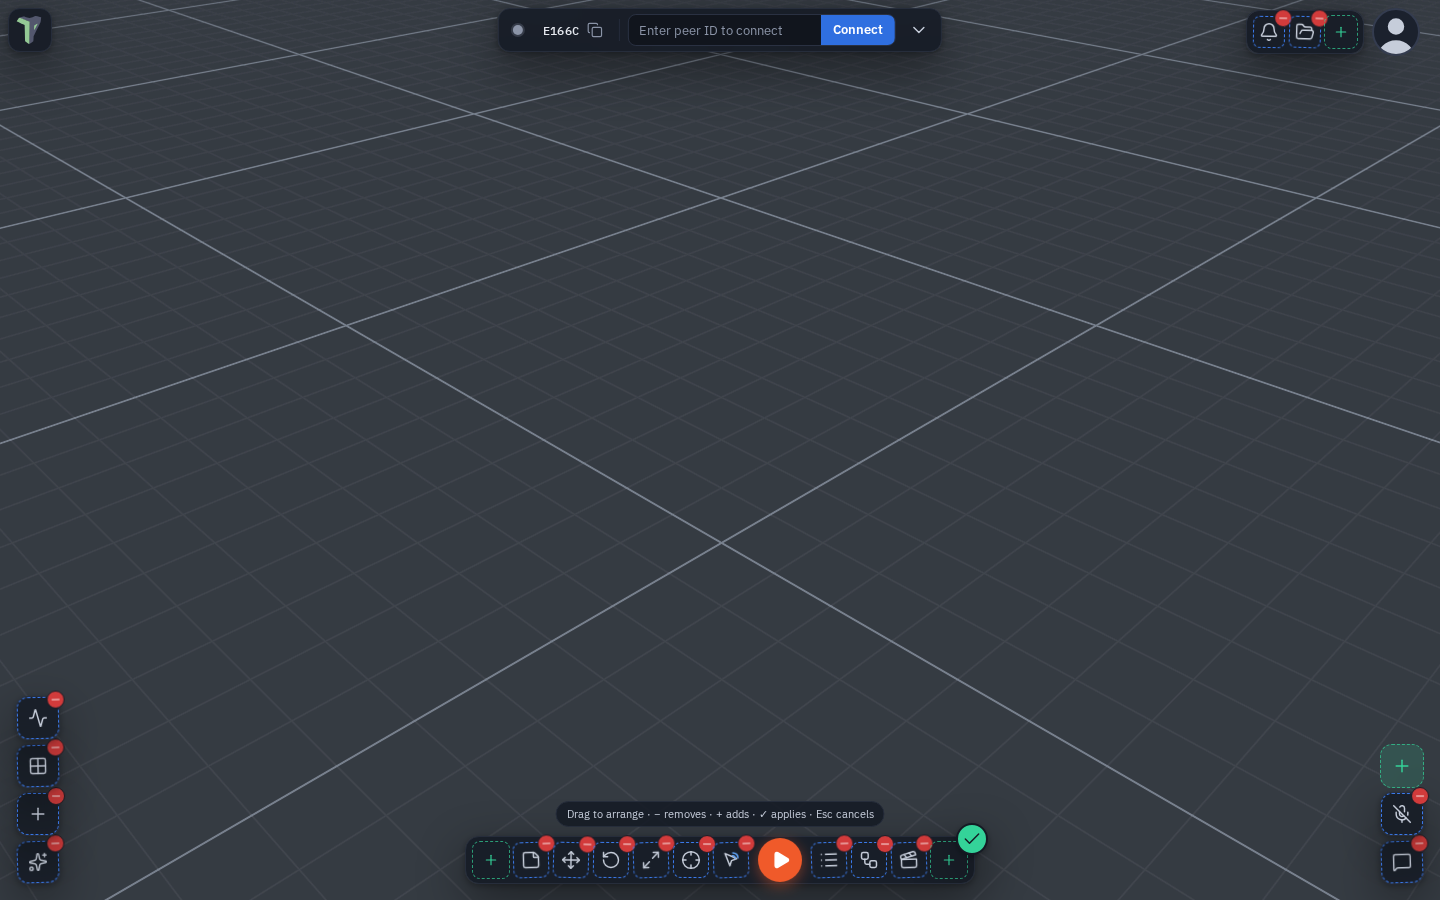
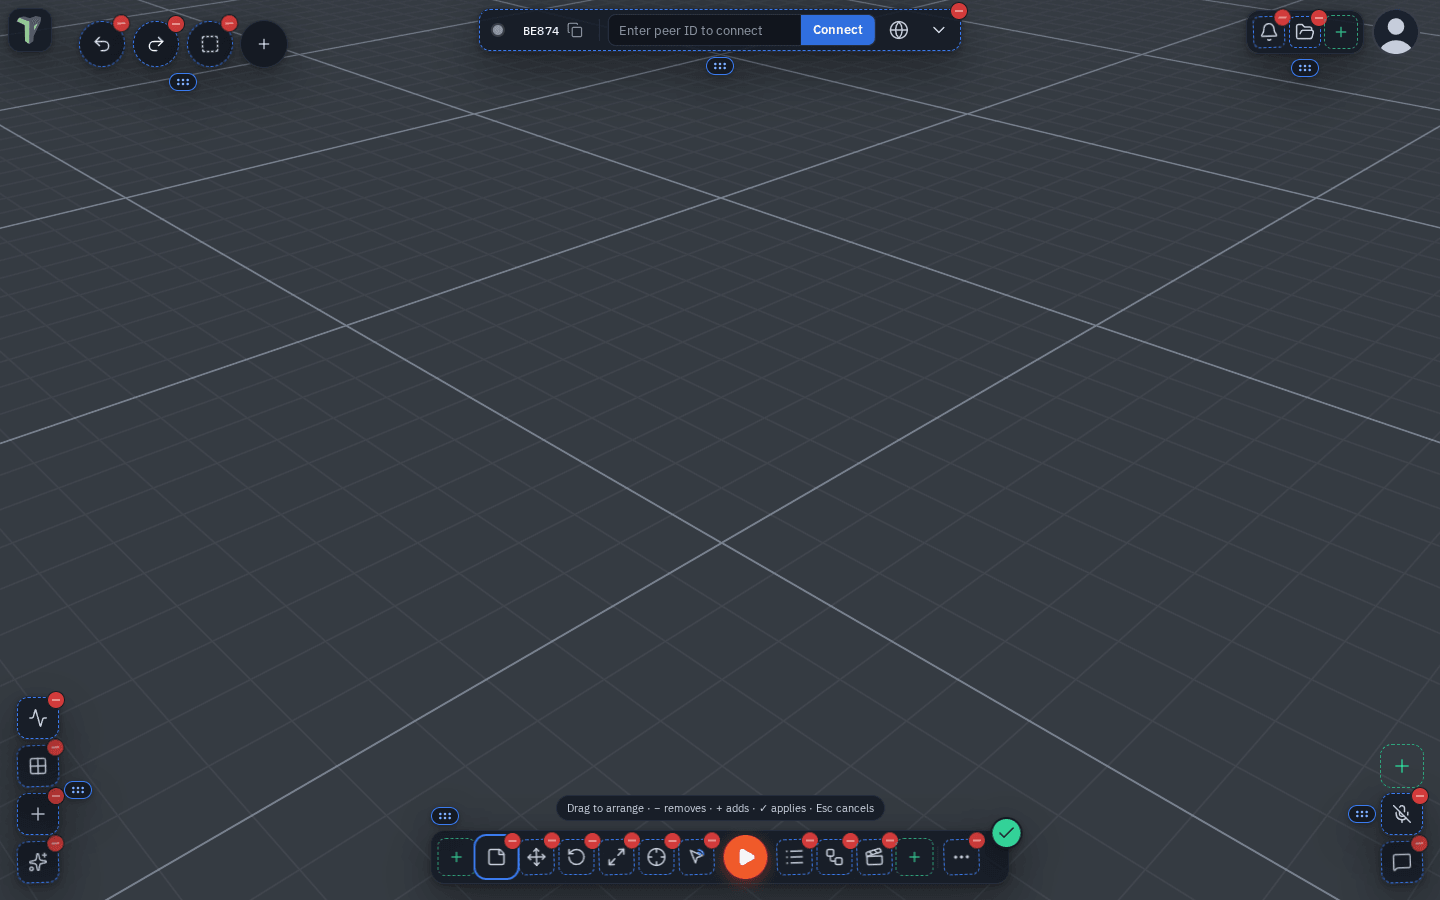
[docs] 1.35 screenshot: edit-positions-top-right with the cluster grips (44-int)
Re-captured on preview-1-35 (sha 333d95d2), dark, 1440x900, the same custom
layout and framing as the 1.34 shot (top-right group = Notifications + Explorer,
four buttons in the left corner, Scene notes on the bar); 1.35 adds a grip under
every cluster, so the alt text says so.

diff --git a/docs/controls.md b/docs/controls.md
@@ -607,7 +607,7 @@ Then:
 
 ![Edit positions on a computer: every button has a red −, green + slots sit at the ends of the bar and on top of each corner stack, a grip sits beside the bar and each corner stack, and the green ✓ applies](img/controls/edit-positions.png)
 
-![Edit positions reaching the top right: the notifications and Explorer buttons in the top-right group carry a red − with a green + for its next place, the left corner holds four buttons and no +, and the right corner shows one +](img/controls/edit-positions-top-right.png)
+![Edit positions reaching the top right: the notifications and Explorer buttons in the top-right group carry a red − with a green + for its next place, the left corner holds four buttons and no +, the right corner shows one +, and every cluster has its grip](img/controls/edit-positions-top-right.png)
 
 ![The top of the screen in Edit positions with a mouse: Undo, Redo and Multi-select beside the logo carry a red − with a + for the next place, the Connect bar has its own red −, the top-right group shows a + for its next place, and each of the three clusters has its grip underneath](img/controls/edit-positions-connect-bar.png)
 
